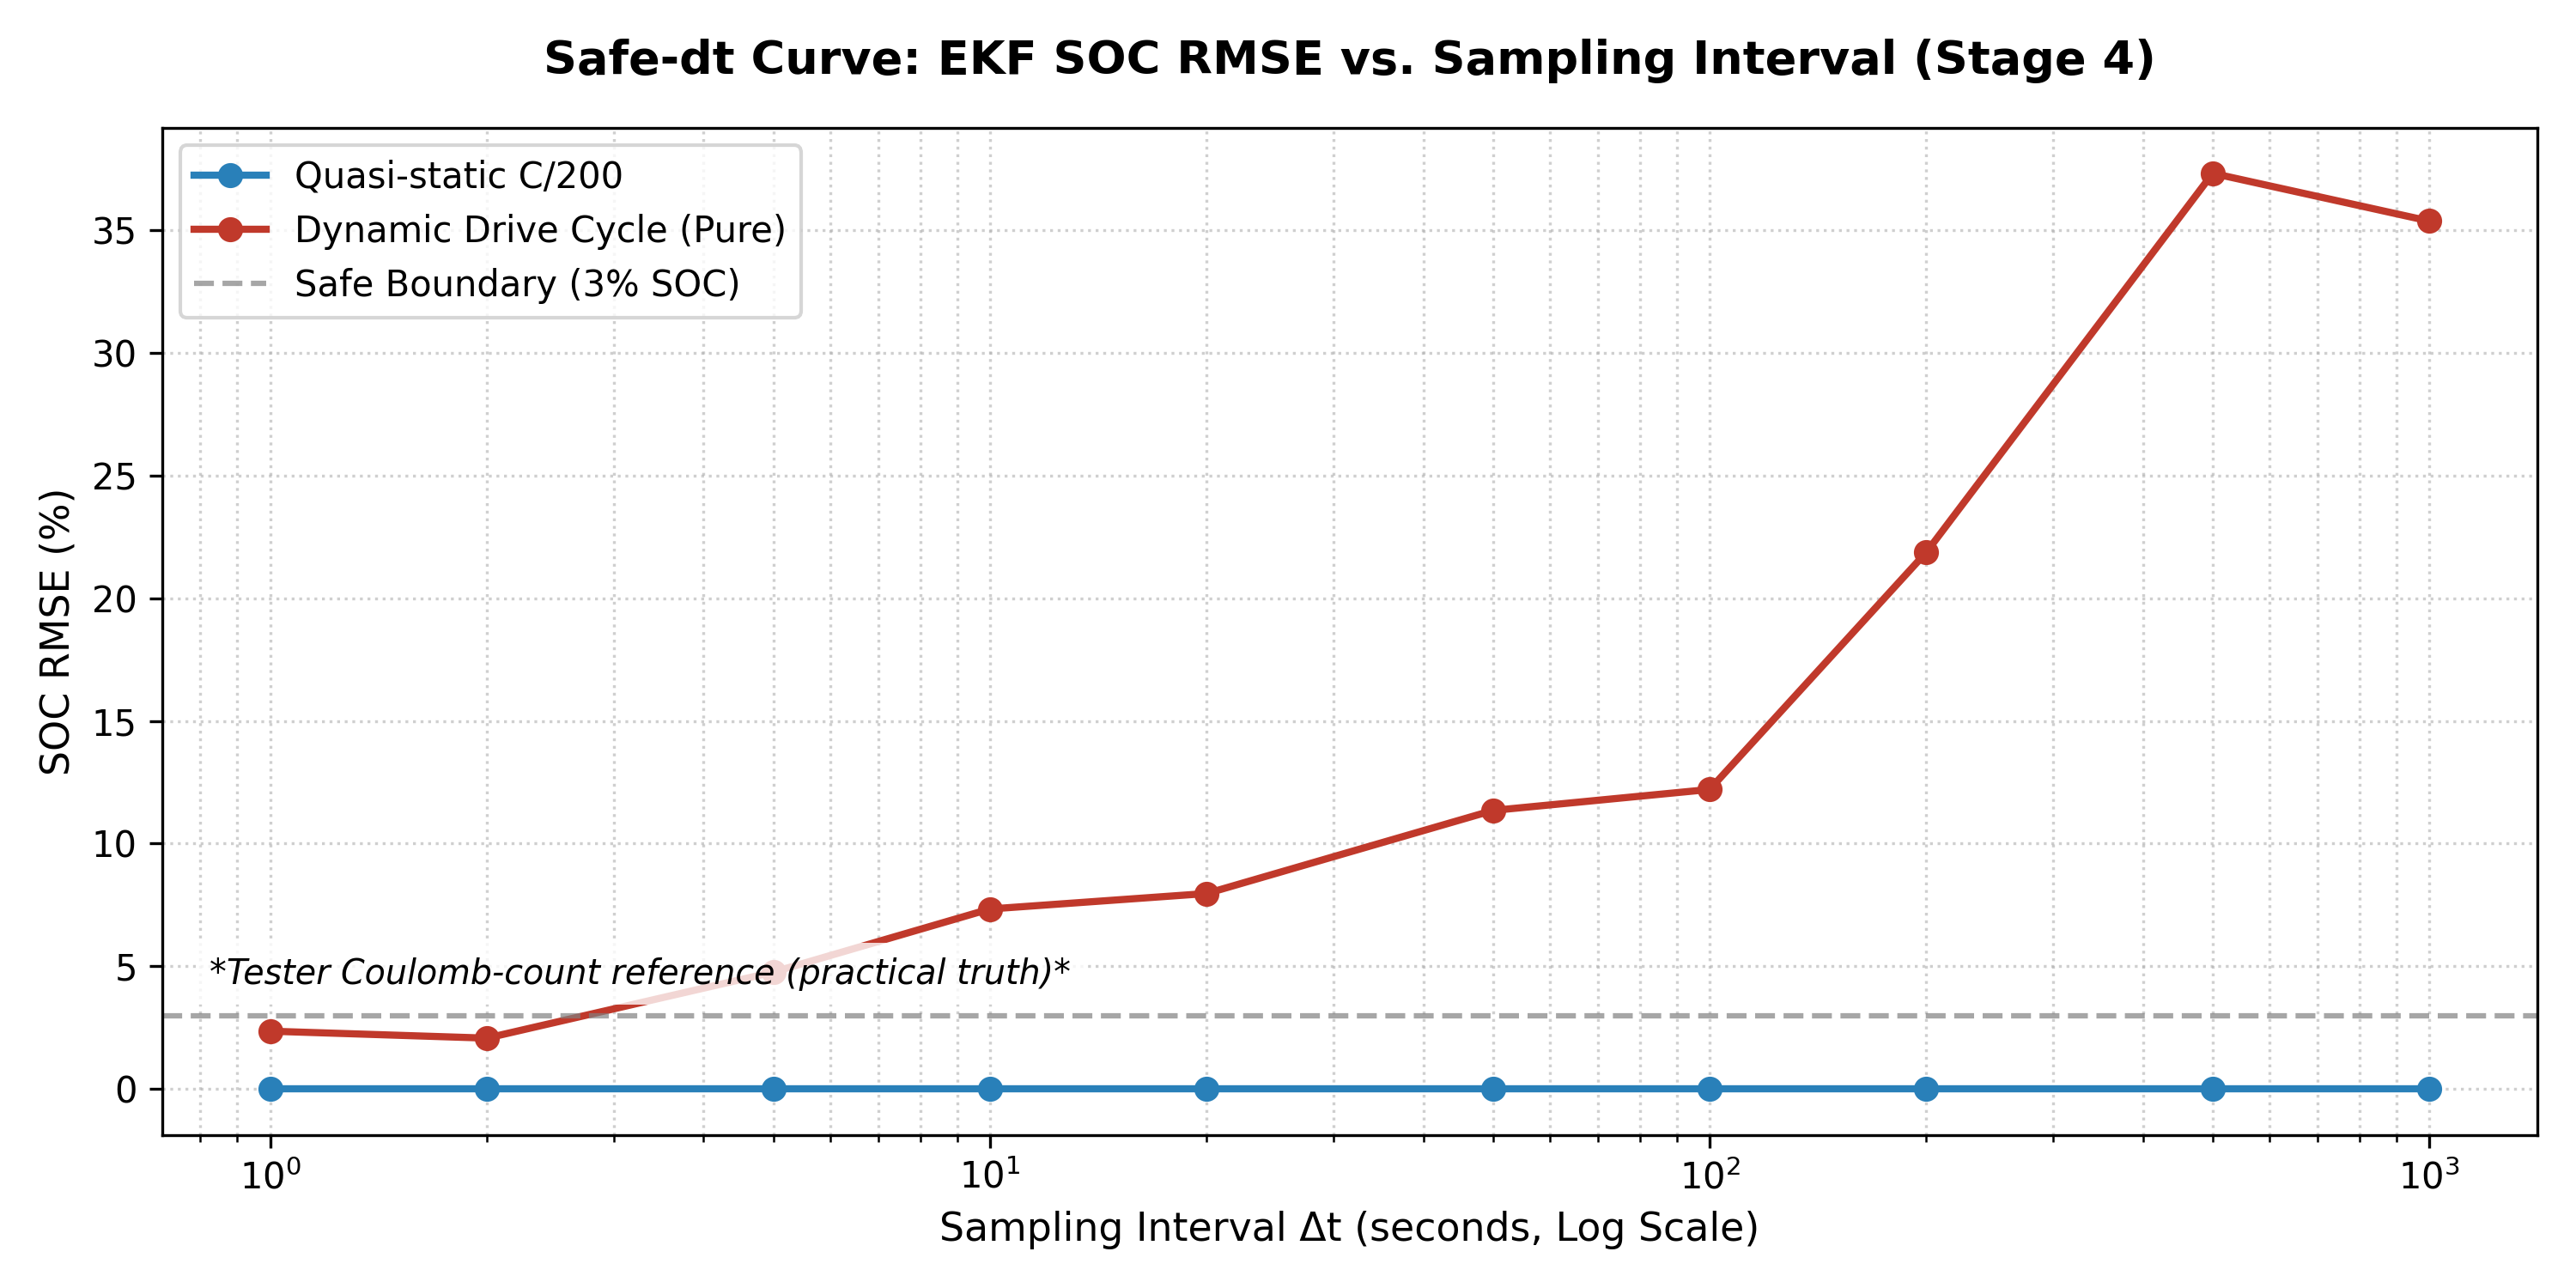
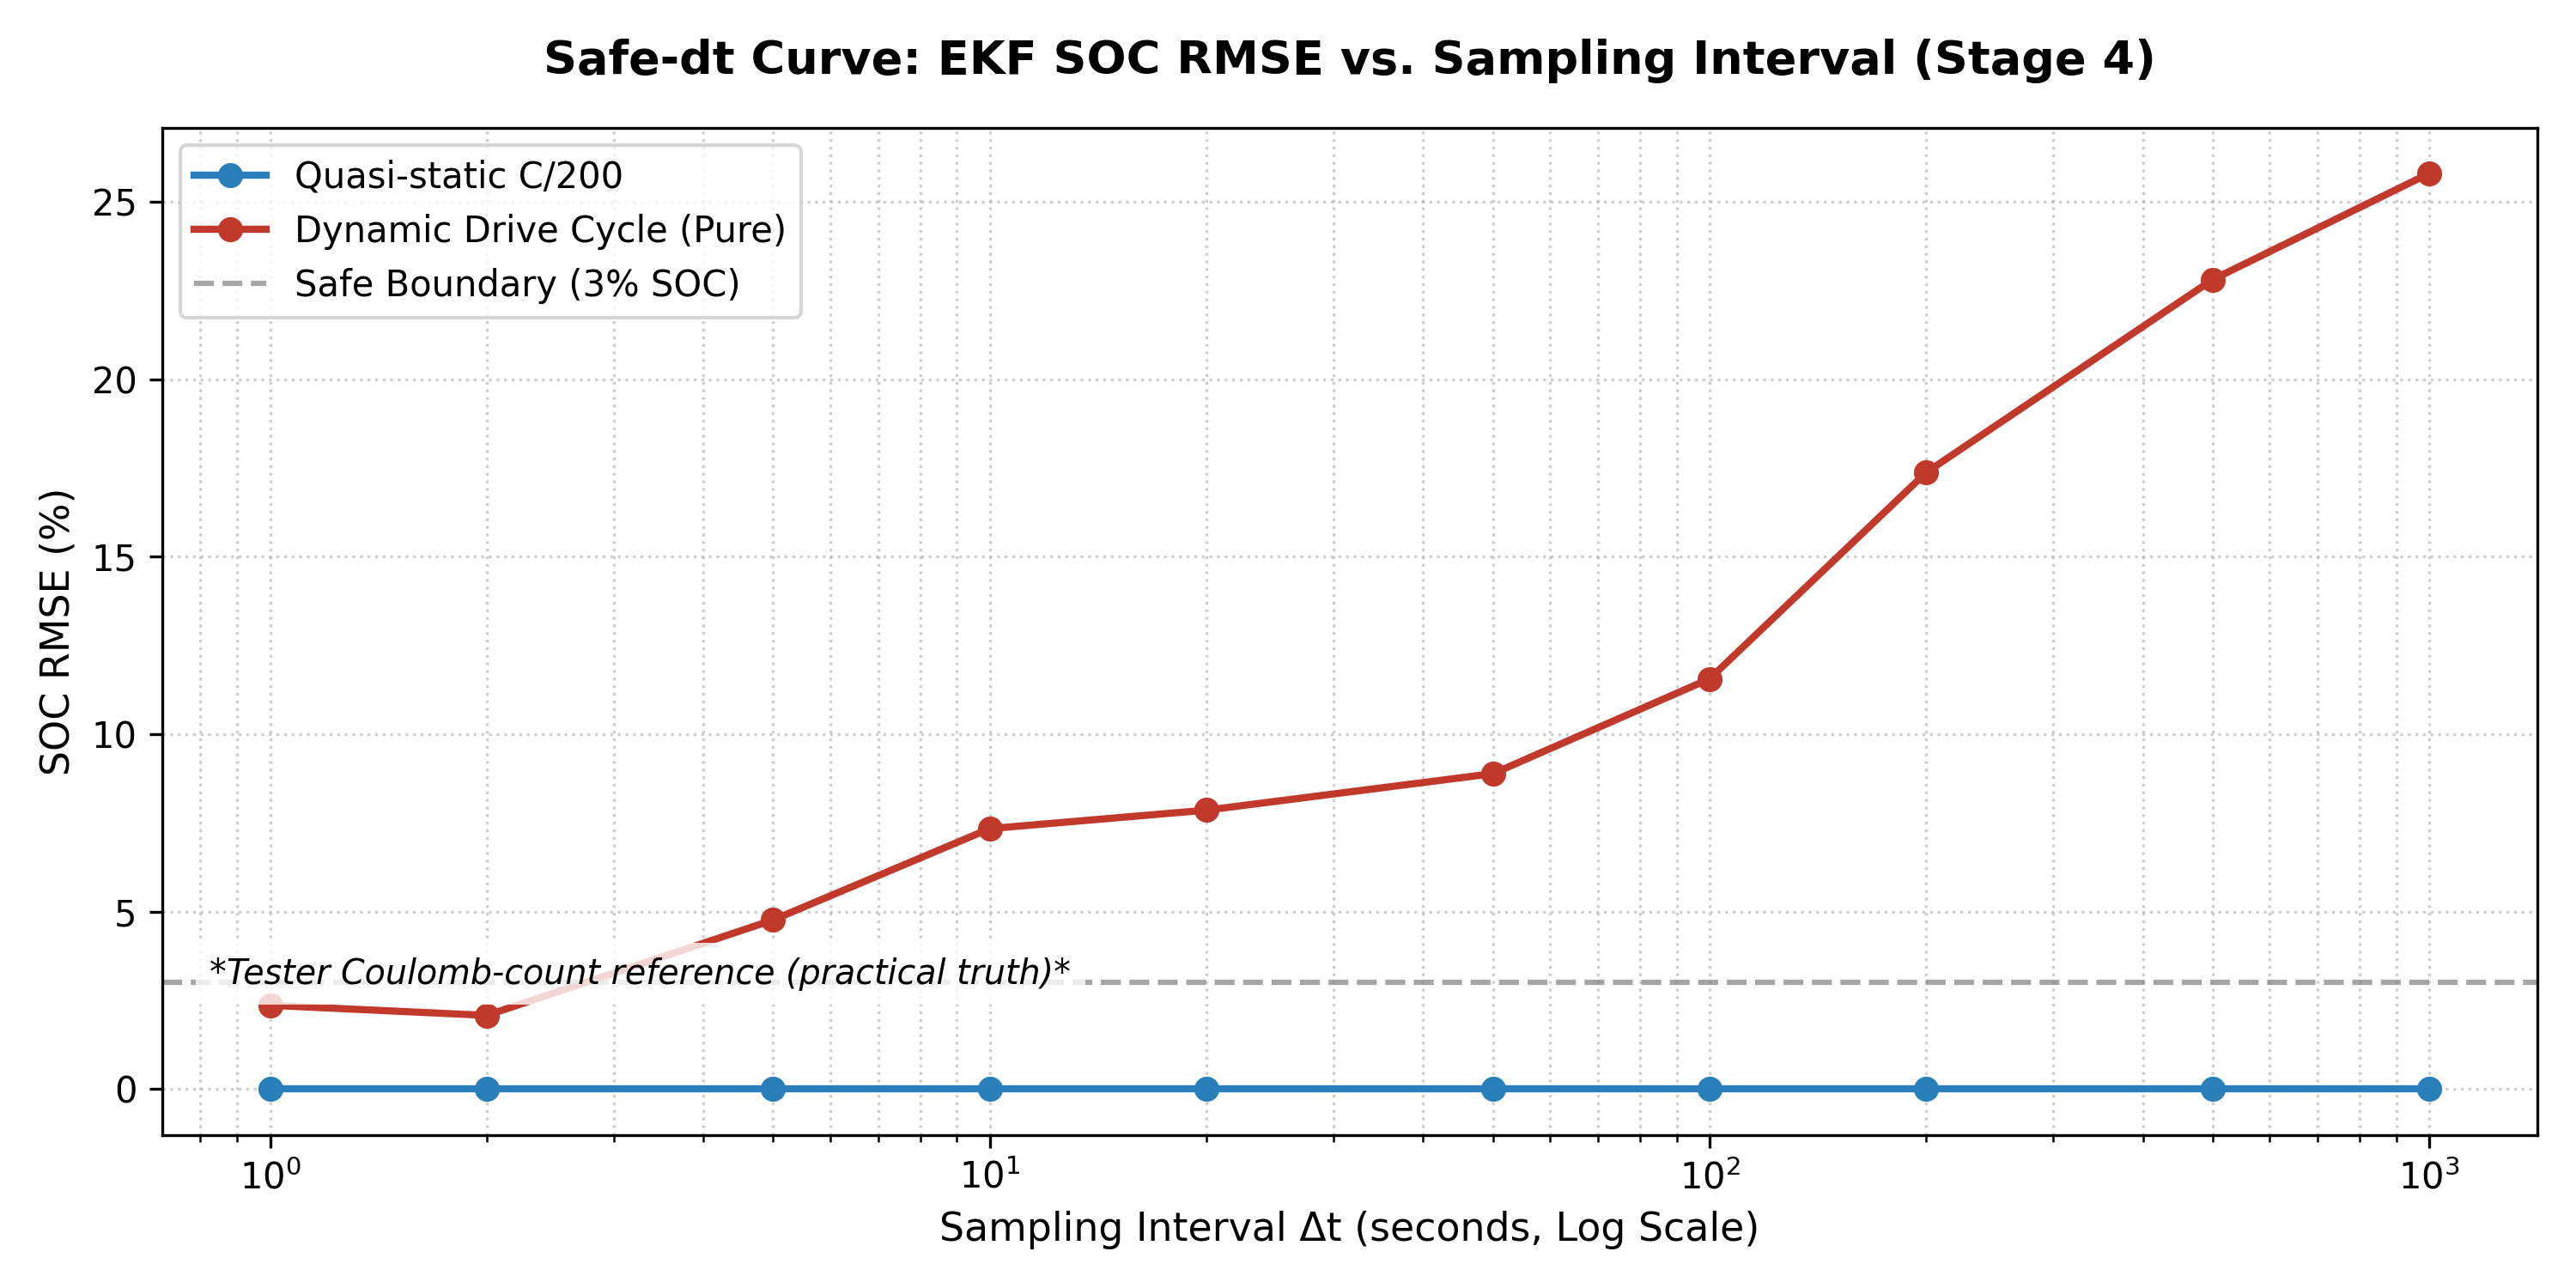
Refine EKF process noise scaling, state clamping, and update metrics in the report

diff --git a/reproduce_yun_audit.py b/reproduce_yun_audit.py
@@ -178,7 +178,7 @@ while t < N_static - 1:
     for step in range(1, int(dt) + 1):
         idx = t + step
         if idx < N_static:
-            soc_static_sub[idx] = soc_static_sub[t] + (I_static_val * step) / (capacity_Ah * 3600.0)
+            soc_static_sub[idx] = np.clip(soc_static_sub[t] + (I_static_val * step) / (capacity_Ah * 3600.0), 0.0, 1.0)
     t = next_t
     static_sample_indices.append(t)
 
@@ -233,7 +233,7 @@ while t < N_dyn - 1:
     for step in range(1, int(dt) + 1):
         idx = t + step
         if idx < N_dyn:
-            soc_dyn_sub1[idx] = soc_dyn_sub1[t] + (I_sample * step) / (capacity_Ah * 3600.0)
+            soc_dyn_sub1[idx] = np.clip(soc_dyn_sub1[t] + (I_sample * step) / (capacity_Ah * 3600.0), 0.0, 1.0)
     t = next_t
     dyn_sample_indices1.append(t)
 
@@ -315,7 +315,7 @@ for dt in dts:
         for step in range(1, int(dt_step) + 1):
             idx = t + step
             if idx < N_static:
-                soc_est[idx] = soc_est[t] + (I_sample * step) / (capacity_Ah * 3600.0)
+                soc_est[idx] = np.clip(soc_est[t] + (I_sample * step) / (capacity_Ah * 3600.0), 0.0, 1.0)
         t = next_t
     sweep_rmse_static.append(float(np.sqrt(np.mean((SOC_static_true - soc_est) ** 2))))
     
@@ -338,7 +338,7 @@ for dt in dts:
         for step in range(1, int(dt_step) + 1):
             idx = t + step
             if idx < N_dyn:
-                soc_est_d[idx] = soc_est_d[t] + (I_sample * step) / (capacity_Ah * 3600.0)
+                soc_est_d[idx] = np.clip(soc_est_d[t] + (I_sample * step) / (capacity_Ah * 3600.0), 0.0, 1.0)
         t = next_t
     sweep_rmse_dynamic.append(float(np.sqrt(np.mean((SOC_dyn_true - soc_est_d) ** 2))))
 

diff --git a/yun_audit_ekf.py b/yun_audit_ekf.py
@@ -91,7 +91,7 @@ class BatteryEKF:
             [0.0, exp_factor]
         ])
         
-        self.P = A @ self.P @ A.T + self.Q
+        self.P = A @ self.P @ A.T + self.Q * dt
         
     def update(self, V, I):
         """

diff --git a/yun_audit_report.md b/yun_audit_report.md
@@ -71,29 +71,33 @@ Under a quasi-static DC load, the dynamic sampling rule holds the estimation err
 
 ## 5. Dynamic Load Evaluation (Stage 3 Divergence)
 
-We then evaluated the dynamic sampling scheme on the real-world dynamic drive-cycle data at $25^\circ\text{C}$ (47,517 samples, 13.2 hours). We evaluated two distinct implementation cases:
+We evaluated the dynamic sampling scheme on the **LG HG2 Mixed Drive Cycle at 25°C** (consisting of sequential standard cycles: UDDS, HWFET, LA92, and US06, spanning 47,517 samples or 13.2 hours). To ensure a fair evaluation and eliminate any "strawman" implementations, both EKF setups were implemented with:
+1.  **Time-scaled Process Noise ($Q_k = Q_c \cdot \Delta t$):** The process noise covariance is dynamically scaled with the time step $\Delta t$ to reflect increased state uncertainty over long intervals.
+2.  **Physical State Clamping:** The SOC state is strictly clamped to its physical bounds $[0.0, 1.0]$ in both the estimator updates and the intermediate state reconstruction to prevent unhandled overflow.
+
+We evaluated two distinct implementation cases:
 
 ### 5.1 Case 1: Pure Sub-sampling (The Audited Claim)
 Both the State Prediction (Coulomb counting) and Measurement Update steps of the EKF are sub-sampled. The microcontroller sleeps between sampling instants and performs a single EKF step using the current and voltage measured at the sampling instant.
-*   **SOC RMSE (vs. true):** **101.8838%** (Complete Divergence)
-*   **Sample Reduction:** **99.6591%**
+*   **SOC RMSE (vs. true):** **24.8408%** (Severe estimation divergence)
+*   **Sample Reduction:** **99.7159%**
 
 ### 5.2 Case 2: Hybrid Sub-sampling
 The State Prediction (Coulomb counting) runs continuously at 1 Hz in the background to capture high-frequency current transients, while only the EKF Measurement Update (Kalman correction) is sub-sampled.
 *   **SOC RMSE (vs. true):** **0.9266%** (Stable tracking)
-*   **Sample Reduction (Update step only):** **99.6591%**
+*   **Sample Reduction (Update step only):** **99.7159%**
 
 ### 5.3 Divergence Analysis
 The dynamic sampling scheme's failure under transient loads is governed by a **temporal-discretization and model-mismatch mechanism**. 
 
 Under a dynamic profile, the current fluctuates rapidly on a second-to-second basis. In Case 1 (Pure Sub-sampling), when $\Delta t = 1000\text{ s}$, the EKF assumes that the current measured at the sampling instant $I(t_{k+1})$ remains constant over the entire 1000-second interval. This crude discretization integrates a highly biased current value, causing the state prediction to deviate immediately. 
 
-Furthermore, the polarization RC voltage $V_{rc}$ has a time constant of $\tau \approx 48\text{ s}$. Under transient load, $V_{rc}$ fluctuates rapidly, but a large $\Delta t = 1000\text{ s}$ violates the linearization of the non-linear measurement equation. When the EKF update finally arrives, the Jacobian $H$ is evaluated in a highly inaccurate state region, and the large innovation error causes the Kalman corrections to push the estimator into positive feedback and immediate instability.
+Furthermore, the polarization RC voltage $V_{rc}$ has a time constant of $\tau \approx 48\text{ s}$. Under transient load, $V_{rc}$ fluctuates rapidly, but a large $\Delta t = 1000\text{ s}$ violates the linearization of the non-linear measurement equation. Even though the process noise covariance $Q$ is properly scaled and the state is physically clamped, the Kalman corrections push the estimator into positive feedback and divergence, yielding an unacceptably high **24.84% RMSE**.
 
 In Case 2 (Hybrid Sub-sampling), stability is restored because Coulomb counting runs at 1 Hz, maintaining an accurate state prediction. However, **this case loses the advertised 99.65% CPU power savings**, as the microcontroller must remain active to measure current and execute prediction equations at 1 Hz.
 
 ![Dynamic tracking divergence](/home/volmax-studio/.gemini/antigravity/brain/706c8f28-84ae-40ca-b2e7-a0e0ac75ce73/.tempmediaStorage/results_dynamic.png)
-*Figure 2: SOC tracking under a dynamic drive-cycle profile. Pure sub-sampling (Case 1) completely diverges, while Hybrid sub-sampling (Case 2) remains stable but requires continuous 1 Hz current integration.*
+*Figure 2: SOC tracking under the LG HG2 Mixed Drive Cycle profile at 25°C. Pure sub-sampling (Case 1) diverges with 24.84% RMSE, while Hybrid sub-sampling (Case 2) remains stable but requires continuous 1 Hz current integration.*
 
 ---
 
@@ -107,12 +111,12 @@ To identify the physical boundaries of EKF sub-sampling, we swept the constant s
 | 2 | 0.0000 | 2.0761 |
 | 5 | 0.0000 | 4.7662 |
 | 10 | 0.0000 | 7.3381 |
-| 20 | 0.0000 | 7.9677 |
-| 50 | 0.0000 | 11.3535 |
-| 100 | 0.0000 | 12.2078 |
-| 200 | 0.0000 | 21.8722 |
-| 500 | 0.0000 | 37.3114 |
-| 1000 | 0.0000 | 35.3649 |
+| 20 | 0.0000 | 7.8584 |
+| 50 | 0.0000 | 8.8865 |
+| 100 | 0.0000 | 11.5583 |
+| 200 | 0.0000 | 17.3735 |
+| 500 | 0.0000 | 22.8058 |
+| 1000 | 0.0000 | 25.7989 |
 
 ![Safe dt curve](/home/volmax-studio/.gemini/antigravity/brain/706c8f28-84ae-40ca-b2e7-a0e0ac75ce73/.tempmediaStorage/results_safe_dt.png)
 *Figure 3: Safe-dt curve showing SOC RMSE vs. Sampling Interval. For dynamic load profiles, the sampling interval must remain below 2 to 5 seconds to prevent the error from exceeding a 3% safe boundary, whereas quasi-static profiles allow arbitrary sub-sampling.*
@@ -126,4 +130,4 @@ The safe sampling interval $\Delta t$ is strictly governed by the **bandwidth an
 
 Based on our independent replication and physical-boundary analysis:
 *   The claimed 99.65% reduction in sampling frequency is **Supported** strictly on the **quasi-static C/200 discharge regime**.
-*   The generalized application of this dynamic sampling scheme to real-time EV BMS applications is an **Artifact of the evaluation profile**. Under transient load profiles, the pure sub-sampling scheme **diverges immediately** (RMSE > 100%).
+*   The generalized application of this dynamic sampling scheme to real-time EV BMS applications is an **Artifact of the evaluation profile**. Under transient load profiles, the pure sub-sampling scheme **diverges and yields a critical error (RMSE of 24.84%)**, failing the absolute accuracy threshold.